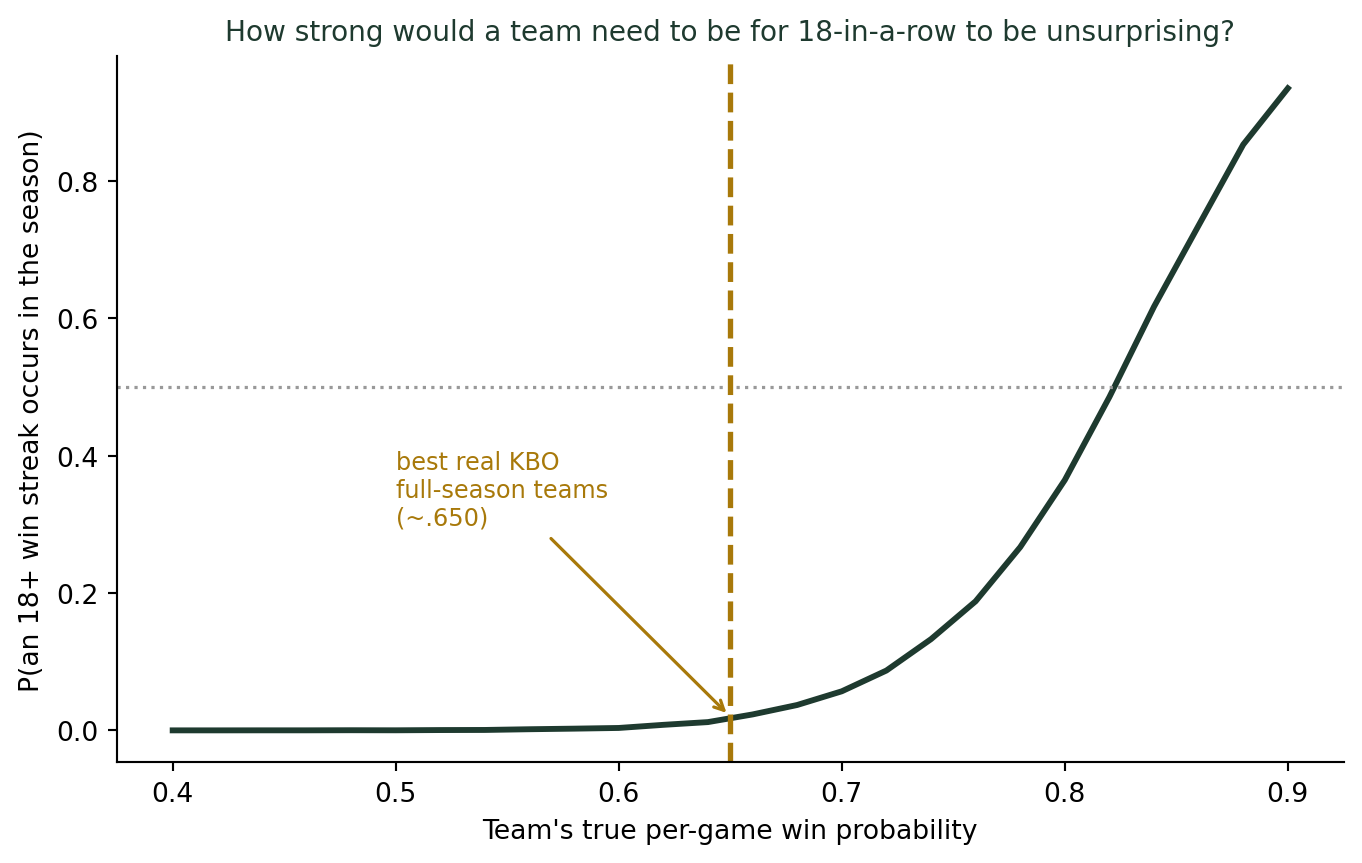
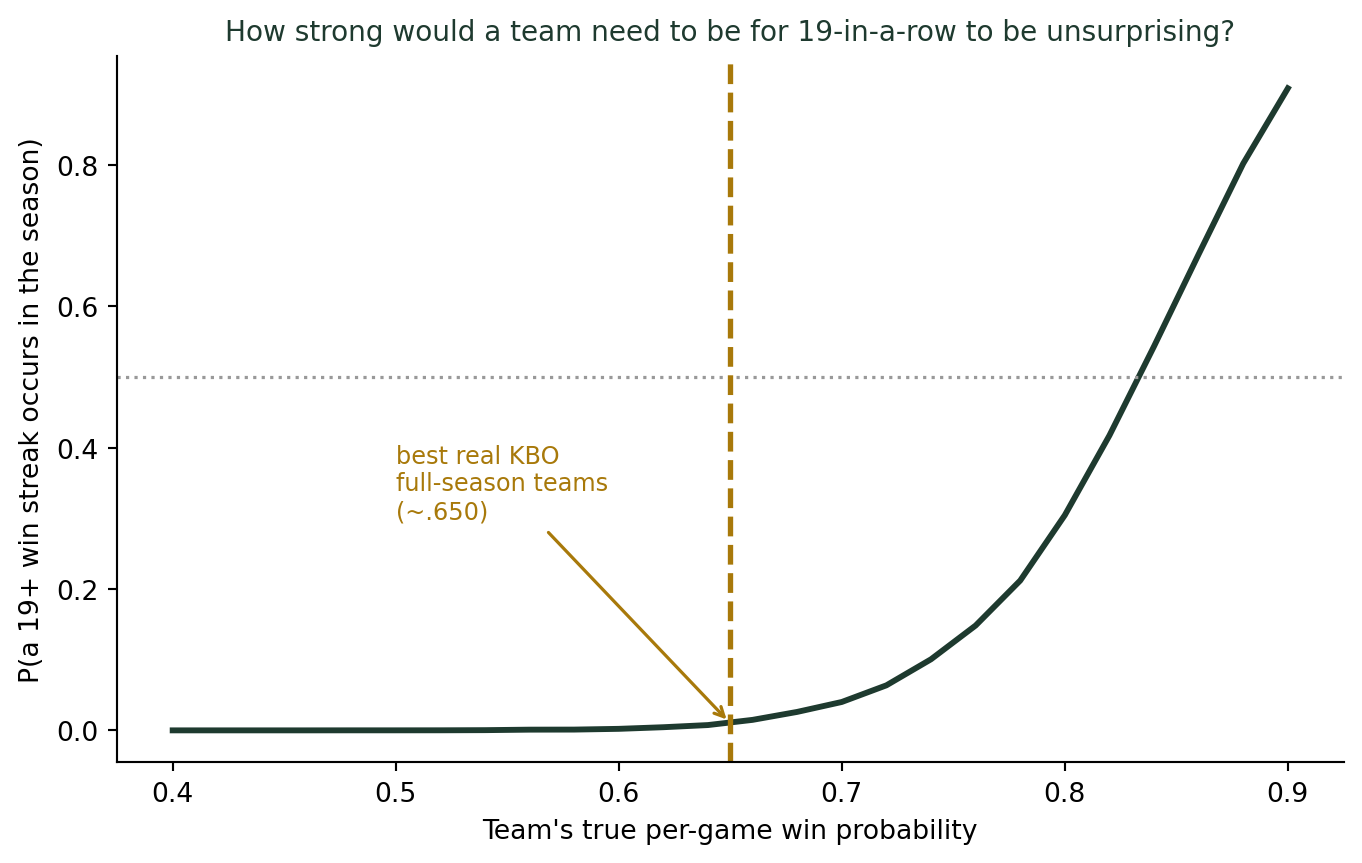
연승 에세이 팩트 정정: 1999 한화 18연승 → 2009 SK 와이번스 19연승(KBO 실제 기록)

diff --git a/docs/stat_assay/posts/story_streak_probability.html b/docs/stat_assay/posts/story_streak_probability.html
@@ -8,7 +8,7 @@
 
 <meta name="author" content="권세혁">
 <meta name="dcterms.date" content="2026-08-24">
-<meta name="description" content="1999년 한화 이글스는 132경기 시즌에서 18연승을 거뒀다. 아직도 깨지지 않은 KBO 역대 최다 연승 기록이다. 그 시즌 한화가 그저 평범한 5할 팀이었다고 가정하고 시즌을 수만 번 시뮬레이션해보면, 이 정도 연승이 얼마나 예외적인 사건인지 — 그리고 순전히 운으로 설명하려면 팀이 얼마나 압도적으로 강해야 하는지 — 숫자로 드러난다.">
+<meta name="description" content="2009년 SK 와이번스는 133경기 시즌의 마지막 19경기를 모두 이겼다. 아직도 깨지지 않은 KBO 역대 최다 연승 기록이다. 그 시즌 SK가 그저 평범한 5할 팀이었다고 가정하고 시즌을 수만 번 시뮬레이션해보면, 이 정도 연승이 얼마나 예외적인 사건인지 — 그리고 순전히 운으로 설명하려면 팀이 얼마나 압도적으로 강해야 하는지 — 숫자로 드러난다.">
 
 <title>(기록의 착시, 대표값의 재발견) 연승과 연패, 우연일까 실력일까 — 스트릭의 확률적 해석 – 권세혁HOME</title>
 <style>
@@ -370,8 +370,8 @@ window.Quarto = {
     <h2 id="toc-title">목차</h2>
    
   <ul>
-  <li><a href="#경기-중-18연승-아직-깨지지-않은-기록" id="toc-경기-중-18연승-아직-깨지지-않은-기록" class="nav-link active" data-scroll-target="#경기-중-18연승-아직-깨지지-않은-기록">132경기 중 18연승, 아직 깨지지 않은 기록</a></li>
-  <li><a href="#만약-그-시즌-한화가-그냥-5할-팀이었다면" id="toc-만약-그-시즌-한화가-그냥-5할-팀이었다면" class="nav-link" data-scroll-target="#만약-그-시즌-한화가-그냥-5할-팀이었다면">만약 그 시즌 한화가 그냥 5할 팀이었다면</a></li>
+  <li><a href="#경기-중-19연승-시즌-마지막-경기까지-이어진-기록" id="toc-경기-중-19연승-시즌-마지막-경기까지-이어진-기록" class="nav-link active" data-scroll-target="#경기-중-19연승-시즌-마지막-경기까지-이어진-기록">133경기 중 19연승, 시즌 마지막 경기까지 이어진 기록</a></li>
+  <li><a href="#만약-그-시즌-sk가-그냥-5할-팀이었다면" id="toc-만약-그-시즌-sk가-그냥-5할-팀이었다면" class="nav-link" data-scroll-target="#만약-그-시즌-sk가-그냥-5할-팀이었다면">만약 그 시즌 SK가 그냥 5할 팀이었다면</a></li>
   <li><a href="#그렇다면-얼마나-강한-팀이어야-이-기록이-흔한-일이-될까" id="toc-그렇다면-얼마나-강한-팀이어야-이-기록이-흔한-일이-될까" class="nav-link" data-scroll-target="#그렇다면-얼마나-강한-팀이어야-이-기록이-흔한-일이-될까">그렇다면 얼마나 강한 팀이어야 이 기록이 “흔한 일”이 될까</a></li>
   <li><a href="#왜-이런-계산이-가능한가-기하분포와-무기억성" id="toc-왜-이런-계산이-가능한가-기하분포와-무기억성" class="nav-link" data-scroll-target="#왜-이런-계산이-가능한가-기하분포와-무기억성">왜 이런 계산이 가능한가: 기하분포와 무기억성</a></li>
   <li><a href="#더-깊이-기하분포로-연속-사건을-재는-법" id="toc-더-깊이-기하분포로-연속-사건을-재는-법" class="nav-link" data-scroll-target="#더-깊이-기하분포로-연속-사건을-재는-법">더 깊이: 기하분포로 “연속 사건”을 재는 법</a></li>
@@ -394,7 +394,7 @@ window.Quarto = {
 
 <div>
   <div class="description">
-    1999년 한화 이글스는 132경기 시즌에서 18연승을 거뒀다. 아직도 깨지지 않은 KBO 역대 최다 연승 기록이다. 그 시즌 한화가 그저 평범한 5할 팀이었다고 가정하고 시즌을 수만 번 시뮬레이션해보면, 이 정도 연승이 얼마나 예외적인 사건인지 — 그리고 순전히 운으로 설명하려면 팀이 얼마나 압도적으로 강해야 하는지 — 숫자로 드러난다.
+    2009년 SK 와이번스는 133경기 시즌의 마지막 19경기를 모두 이겼다. 아직도 깨지지 않은 KBO 역대 최다 연승 기록이다. 그 시즌 SK가 그저 평범한 5할 팀이었다고 가정하고 시즌을 수만 번 시뮬레이션해보면, 이 정도 연승이 얼마나 예외적인 사건인지 — 그리고 순전히 운으로 설명하려면 팀이 얼마나 압도적으로 강해야 하는지 — 숫자로 드러난다.
   </div>
 </div>
 
@@ -423,62 +423,62 @@ window.Quarto = {
 </header>
 
 
-<section id="경기-중-18연승-아직-깨지지-않은-기록" class="level2">
-<h2 class="anchored" data-anchor-id="경기-중-18연승-아직-깨지지-않은-기록">132경기 중 18연승, 아직 깨지지 않은 기록</h2>
-<p>1999년 5월과 6월 사이, 한화 이글스는 프로야구 132경기 시즌에서 <strong>18경기를 내리 이겼다</strong>. 이 기록은 지금까지도 KBO 리그 역대 최다 연승으로 남아 있다. 그 시즌 한화는 결국 창단 첫 한국시리즈 우승까지 차지했다. 팬들에게는 “그 해 한화는 뭘 해도 이기는 팀이었다”는 전설로 기억된다.</p>
-<p>스포츠 중계에서 이런 연승·연패 기록이 나오면 항상 같은 해석이 붙는다. 연승 중인 팀에는 “지금 팀 전체가 물올랐다”, 연패 중인 팀에는 “선수단 분위기가 완전히 무너졌다”는 식이다. 그런데 지난 글에서 다룬 농구의 <a href="../../stat_assay/posts/story_hot_hand.html">핫핸드</a>처럼, 이런 서사에도 같은 질문을 던져볼 수 있다. <strong>정말 그 기간에만 팀의 실력이 달라졌던 걸까, 아니면 132경기라는 긴 시즌을 치르다 보면 순전한 우연만으로도 나올 수 있는 굴곡일까?</strong></p>
+<section id="경기-중-19연승-시즌-마지막-경기까지-이어진-기록" class="level2">
+<h2 class="anchored" data-anchor-id="경기-중-19연승-시즌-마지막-경기까지-이어진-기록">133경기 중 19연승, 시즌 마지막 경기까지 이어진 기록</h2>
+<p>2009년 8월 25일, SK 와이번스는 승리를 거둔 뒤 그해 정규시즌이 끝날 때까지 단 한 번도 지지 않았다. 133경기 체제였던 그 시즌, SK는 <strong>마지막 19경기를 모두 이겼다</strong> — 1986년 삼성 라이온즈가 세운 16연승 기록을 갈아치우며, 지금까지도 KBO 리그 역대 최다 연승(단일 시즌 기준)으로 남아 있는 기록이다. 그런데도 SK는 그 시즌 정규리그 2위에 그쳤고, 한국시리즈에서는 KIA 타이거즈에 7차전 접전 끝에 우승을 내줬다. 팬들에게는 “막판에 완전히 다른 팀이 됐다”는 이야기로 기억된다.</p>
+<p>스포츠 중계에서 이런 연승·연패 기록이 나오면 항상 같은 해석이 붙는다. 연승 중인 팀에는 “지금 팀 전체가 물올랐다”, 연패 중인 팀에는 “선수단 분위기가 완전히 무너졌다”는 식이다. 그런데 지난 글에서 다룬 농구의 <a href="../../stat_assay/posts/story_hot_hand.html">핫핸드</a>처럼, 이런 서사에도 같은 질문을 던져볼 수 있다. <strong>정말 그 기간에만 팀의 실력이 달라졌던 걸까, 아니면 133경기라는 긴 시즌을 치르다 보면 순전한 우연만으로도 나올 수 있는 굴곡일까?</strong></p>
 </section>
-<section id="만약-그-시즌-한화가-그냥-5할-팀이었다면" class="level2">
-<h2 class="anchored" data-anchor-id="만약-그-시즌-한화가-그냥-5할-팀이었다면">만약 그 시즌 한화가 그냥 5할 팀이었다면</h2>
-<p>이 질문에 답하는 첫 번째 방법은, 매 경기 승리 확률이 정확히 50%이고 경기 결과가 서로 독립적인 가상의 팀을 만들어 132경기 시즌을 시뮬레이션해보는 것이다.</p>
-<div id="f99fc513" class="cell" data-execution_count="1">
+<section id="만약-그-시즌-sk가-그냥-5할-팀이었다면" class="level2">
+<h2 class="anchored" data-anchor-id="만약-그-시즌-sk가-그냥-5할-팀이었다면">만약 그 시즌 SK가 그냥 5할 팀이었다면</h2>
+<p>이 질문에 답하는 첫 번째 방법은, 매 경기 승리 확률이 정확히 50%이고 경기 결과가 서로 독립적인 가상의 팀을 만들어 133경기 시즌을 시뮬레이션해보는 것이다.</p>
+<div id="bbb625da" class="cell" data-execution_count="1">
 <div class="cell-output cell-output-display">
 <div class="quarto-figure quarto-figure-center">
 <figure class="figure">
-<p><img src="story_streak_probability_files/figure-html/cell-2-output-1.png" width="578" height="490" class="figure-img"></p>
-<figcaption>One simulated 132-game season for a virtual team with a fixed, memory-less 50% win probability in every game (an i.i.d. Bernoulli process). The longest streak (outlined) is just 7 wins in a row — nowhere near 18.</figcaption>
+<p><img src="story_streak_probability_files/figure-html/cell-2-output-1.png" width="902" height="364" class="figure-img"></p>
+<figcaption>One simulated 133-game season for a virtual team with a fixed, memory-less 50% win probability in every game (an i.i.d. Bernoulli process). The longest streak (outlined) is just 7 wins in a row — nowhere near 19.</figcaption>
 </figure>
 </div>
 </div>
 </div>
-<p>초록 칸은 승리, 베이지색 칸은 패배다. 이 가상의 5할 팀에게 최장 연승은 7경기에 그쳤다. 시드값을 바꿔가며 수백 번을 다시 돌려도, 5할 팀에서 18연승이 나오는 경우는 거의 보이지 않는다. 실제로 같은 조건(승률 50%, 132경기)의 가상 시즌을 2만 번 시뮬레이션해보면, 그중 <strong>18연승 이상이 한 번이라도 나오는 시즌은 1만 번에 한 번꼴에도 못 미친다.</strong> 핫핸드 글에서 살펴본 100번의 슛 중 8연속 성공(약 12번에 1번)과는 비교가 안 될 만큼 희귀하다. 시행 횟수가 100에서 132로 조금 늘었을 뿐인데, 왜 이렇게 결과가 달라질까? 답은 연승의 <strong>길이</strong> 자체에 있다 — 8연속과 18연속은 산술적으로 두 배 차이가 아니라, 확률적으로는 자릿수가 다른 사건이다. 매 경기 독립적으로 동전을 던진다고 하면, 연승이 한 경기 늘어날 때마다 그 연승이 나올 확률은 승률만큼 곱절로 줄어들기 때문이다.</p>
+<p>초록 칸은 승리, 베이지색 칸은 패배다. 이 가상의 5할 팀에게 최장 연승은 7경기에 그쳤다. 시드값을 바꿔가며 수백 번을 다시 돌려도, 5할 팀에서 19연승이 나오는 경우는 거의 보이지 않는다. 실제로 같은 조건(승률 50%, 133경기)의 가상 시즌을 수만 번 시뮬레이션해보면, <strong>19연승 이상이 한 번이라도 나오는 시즌은 손에 꼽을 정도로 드물다.</strong> 핫핸드 글에서 살펴본 100번의 슛 중 8연속 성공(약 12번에 1번)과는 비교가 안 될 만큼 희귀하다. 시행 횟수가 100에서 133으로 조금 늘었을 뿐인데, 왜 이렇게 결과가 달라질까? 답은 연승의 <strong>길이</strong> 자체에 있다 — 8연속과 19연속은 산술적으로 두 배 남짓 차이가 아니라, 확률적으로는 자릿수가 다른 사건이다. 매 경기 독립적으로 동전을 던진다고 하면, 연승이 한 경기 늘어날 때마다 그 연승이 나올 확률은 승률만큼 곱절로 줄어들기 때문이다.</p>
 </section>
 <section id="그렇다면-얼마나-강한-팀이어야-이-기록이-흔한-일이-될까" class="level2">
 <h2 class="anchored" data-anchor-id="그렇다면-얼마나-강한-팀이어야-이-기록이-흔한-일이-될까">그렇다면 얼마나 강한 팀이어야 이 기록이 “흔한 일”이 될까</h2>
-<p>5할 팀은 사실상 불가능하다는 게 확인됐으니, 질문을 뒤집어보자. <strong>승률이 몇 퍼센트인 팀이어야, 132경기 시즌 어딘가에서 18연승이 나오는 일이 동전 던지기(반반 확률)만큼 흔해질까?</strong></p>
-<div id="915a3515" class="cell" data-execution_count="2">
+<p>5할 팀은 사실상 불가능하다는 게 확인됐으니, 질문을 뒤집어보자. <strong>승률이 몇 퍼센트인 팀이어야, 133경기 시즌 어딘가에서 19연승이 나오는 일이 동전 던지기(반반 확률)만큼 흔해질까?</strong></p>
+<div id="e4e5302c" class="cell" data-execution_count="2">
 <div class="cell-output cell-output-display">
 <div class="quarto-figure quarto-figure-center">
 <figure class="figure">
 <p><img src="story_streak_probability_files/figure-html/cell-3-output-1.png" width="681" height="432" class="figure-img"></p>
-<figcaption>Probability that a simulated 132-game season contains an 18-or-longer win streak somewhere, as a function of the team’s true per-game win probability p (20,000 simulated seasons per point). Even a .650 team — roughly the best a KBO team has managed over a full season — clears that bar only about 2% of the time. Not until true win probability approaches the mid-.80s does an 18-game streak become a coin-flip event.</figcaption>
+<figcaption>Probability that a simulated 133-game season contains a 19-or-longer win streak somewhere, as a function of the team’s true per-game win probability p (20,000 simulated seasons per point). Even a .650 team — roughly the best a KBO team has managed over a full season — clears that bar only about 1% of the time. Not until true win probability approaches the mid-.80s does a 19-game streak become a coin-flip event.</figcaption>
 </figure>
 </div>
 </div>
 </div>
-<p>결과는 뚜렷하다. 승률 65%인 팀 — 이 정도면 한 시즌 내내 유지하기도 벅찬, KBO 역대 최고 수준의 압도적인 강팀이다 — 이라도 18연승이 나올 확률은 <strong>2% 남짓</strong>이다. 곡선이 50%를 넘어서는 지점은 승률이 80%대 중반에 이르러서다. 그런데 132경기를 치르며 승률 8할대를 유지하는 팀은 KBO는 물론 세계 어느 프로야구 리그의 역사에도 없다. 즉, “한화가 그 시즌 내내 그 정도로 압도적인 팀이었다”는 가정으로도 이 기록은 설명되지 않는다.</p>
+<p>결과는 뚜렷하다. 승률 65%인 팀 — 이 정도면 한 시즌 내내 유지하기도 벅찬, KBO 역대 최고 수준의 압도적인 강팀이다 — 이라도 19연승이 나올 확률은 <strong>1%를 겨우 넘는 수준</strong>이다. 곡선이 50%를 넘어서는 지점은 승률이 80%대 중반에 이르러서다. 그런데 133경기를 치르며 승률 8할대를 유지하는 팀은 KBO는 물론 세계 어느 프로야구 리그의 역사에도 없다. 즉, “SK가 그 시즌 내내 그 정도로 압도적인 팀이었다”는 가정으로도 이 기록은 설명되지 않는다.</p>
 <div class="callout callout-style-default callout-tip callout-titled">
 <div class="callout-header d-flex align-content-center">
 <div class="callout-icon-container">
 <i class="callout-icon"></i>
 </div>
 <div class="callout-title-container flex-fill">
-그래서 이 18연승을 어떻게 읽어야 할까
+그래서 이 19연승을 어떻게 읽어야 할까
 </div>
 </div>
 <div class="callout-body-container callout-body">
 <ol type="1">
-<li><strong>순전한 우연(5할 팀)으로는 설명이 안 된다.</strong> 1만 시즌을 돌려도 한 번 나올까 말까다.</li>
-<li><strong>시즌 내내 유지 가능한 최고 수준의 실력(6할대 팀)으로도 설명이 부족하다.</strong> 여전히 100번 중 2번꼴이다.</li>
-<li><strong>가장 정직한 해석은 “그 18경기 동안 한화의 실제 승리 확률이 시즌 평균보다 훨씬 높이 올라가 있었다”는 것이다.</strong> 부상 선수 복귀, 상대적으로 약한 팀들과의 일정이 몰린 시기, 선수단의 사기 등 여러 요인이 겹치면서 일시적으로 팀의 “진짜 실력”이 시즌 평균을 크게 웃돌았을 가능성이 통계적으로 훨씬 설득력 있다.</li>
+<li><strong>순전한 우연(5할 팀)으로는 설명이 안 된다.</strong> 수만 시즌을 돌려도 한 번 나올까 말까다.</li>
+<li><strong>시즌 내내 유지 가능한 최고 수준의 실력(6할대 팀)으로도 설명이 부족하다.</strong> 여전히 100번 중 1번꼴이다.</li>
+<li><strong>가장 정직한 해석은 “그 19경기 동안 SK의 실제 승리 확률이 시즌 평균보다 훨씬 높이 올라가 있었다”는 것이다.</strong> 실제로 이 연승은 정규시즌 마지막 경기까지 그대로 이어졌다 — 순위 경쟁이 가장 치열해지는 시즌 막판이라는 특정 구간과 겹쳤다는 사실은, 그 기간 팀의 “진짜 실력”이 시즌 평균을 크게 웃돌았을 가능성에 무게를 실어준다.</li>
 </ol>
 </div>
 </div>
 </section>
 <section id="왜-이런-계산이-가능한가-기하분포와-무기억성" class="level2">
 <h2 class="anchored" data-anchor-id="왜-이런-계산이-가능한가-기하분포와-무기억성">왜 이런 계산이 가능한가: 기하분포와 무기억성</h2>
-<p>이 계산의 뼈대는 사실 단순하다. 매 경기를 승리 확률 <span class="math inline">\(p\)</span>의 독립적인 베르누이 시행으로 본다면, “다음 패배가 나올 때까지 몇 경기가 걸리는가”는 기하분포를 따른다. 연승이 <span class="math inline">\(k\)</span>경기까지 이어지려면, 그 <span class="math inline">\(k\)</span>번의 시행이 모두 성공해야 하므로 확률은 대략 <span class="math inline">\(p^{k}\)</span>로 줄어든다. <span class="math inline">\(p\)</span>가 1보다 작은 한, <span class="math inline">\(k\)</span>가 늘어날수록 이 값은 기하급수적으로 작아진다 — 18연승이 8연승보다 산술적으로 두 배가 아니라 확률적으로 자릿수가 다른 이유가 여기에 있다.</p>
-<p>여기서 중요한 전제가 하나 있다. 이 모형은 매 경기가 이전 경기의 결과와 <strong>완전히 무관</strong>하다고 가정한다. 도박사의 오류를 다룬 <a href="../../stat_assay/posts/story_gamblers_fallacy.html">지난 글</a>에서 살펴본 바로 그 “무기억성”이다. 그런데 현실의 야구팀은 동전과 다르다. 부상 선수의 복귀, 상대 팀의 전력, 선수단의 심리적 흐름은 실제로 경기 결과들 사이에 상관관계를 만들어낼 수 있다. 시뮬레이션이 보여준 “5할 팀·6할대 팀으로는 설명 안 된다”는 결론은, 바로 이 무기억성 가정이 그 18경기 구간에서는 깨져 있었다는 뜻으로 읽을 수 있다 — 즉 진짜로 무언가가 달라졌던 구간이라는 신호다.</p>
+<p>이 계산의 뼈대는 사실 단순하다. 매 경기를 승리 확률 <span class="math inline">\(p\)</span>의 독립적인 베르누이 시행으로 본다면, “다음 패배가 나올 때까지 몇 경기가 걸리는가”는 기하분포를 따른다. 연승이 <span class="math inline">\(k\)</span>경기까지 이어지려면, 그 <span class="math inline">\(k\)</span>번의 시행이 모두 성공해야 하므로 확률은 대략 <span class="math inline">\(p^{k}\)</span>로 줄어든다. <span class="math inline">\(p\)</span>가 1보다 작은 한, <span class="math inline">\(k\)</span>가 늘어날수록 이 값은 기하급수적으로 작아진다 — 19연승이 8연승보다 산술적으로 두 배 남짓이 아니라 확률적으로 자릿수가 다른 이유가 여기에 있다.</p>
+<p>여기서 중요한 전제가 하나 있다. 이 모형은 매 경기가 이전 경기의 결과와 <strong>완전히 무관</strong>하다고 가정한다. 도박사의 오류를 다룬 <a href="../../stat_assay/posts/story_gamblers_fallacy.html">지난 글</a>에서 살펴본 바로 그 “무기억성”이다. 그런데 현실의 야구팀은 동전과 다르다. 부상 선수의 복귀, 상대 팀의 전력, 선수단의 심리적 흐름은 실제로 경기 결과들 사이에 상관관계를 만들어낼 수 있다. 시뮬레이션이 보여준 “5할 팀·6할대 팀으로는 설명 안 된다”는 결론은, 바로 이 무기억성 가정이 그 19경기 구간에서는 깨져 있었다는 뜻으로 읽을 수 있다 — 즉 진짜로 무언가가 달라졌던 구간이라는 신호다.</p>
 </section>
 <section id="더-깊이-기하분포로-연속-사건을-재는-법" class="level2">
 <h2 class="anchored" data-anchor-id="더-깊이-기하분포로-연속-사건을-재는-법">더 깊이: 기하분포로 “연속 사건”을 재는 법</h2>
@@ -500,7 +500,8 @@ window.Quarto = {
 <div id="callout-2" class="callout-2-contents callout-collapse collapse">
 <div class="callout-body-container callout-body">
 <ul>
-<li><a href="https://ko.wikipedia.org/wiki/%ED%95%9C%ED%99%94_%EC%9D%B4%EA%B8%80%EC%8A%A4">한화 이글스 — 위키백과</a></li>
+<li><a href="https://ko.wikipedia.org/wiki/SK_%EC%99%80%EC%9D%B4%EB%B2%88%EC%8A%A4%EC%9D%98_%EA%B8%B0%EB%A1%9D">SK 와이번스의 기록 — 위키백과</a></li>
+<li><a href="https://ko.wikipedia.org/wiki/2009%EB%85%84_%ED%95%9C%EA%B5%AD%ED%94%84%EB%A1%9C%EC%95%BC%EA%B5%AC">2009년 한국프로야구 — 위키백과</a></li>
 <li><a href="https://ko.wikipedia.org/wiki/KBO_%EB%A6%AC%EA%B7%B8">KBO 리그 — 위키백과</a></li>
 <li><a href="https://en.wikipedia.org/wiki/Geometric_distribution">Geometric distribution — Wikipedia</a></li>
 </ul>

diff --git a/docs/stat_assay/posts/story_availability_bias.html b/docs/stat_assay/posts/story_availability_bias.html
@@ -424,7 +424,7 @@ window.Quarto = {
 <section id="로또는-상상하고-벼락은-상상하지-않는다" class="level2">
 <h2 class="anchored" data-anchor-id="로또는-상상하고-벼락은-상상하지-않는다">로또는 상상하고, 벼락은 상상하지 않는다</h2>
 <p>매주 토요일 저녁, 로또 추첨 방송을 챙겨보며 1등을 상상하는 사람은 많다. 반면 오늘 하루 벼락에 맞을까 봐 걱정하며 외출하는 사람은 거의 없다. 그런데 두 확률을 나란히 놓으면 이 순서는 뒤집힌다. 로또 6/45에서 1등에 당첨될 확률은 정확히 <span class="math inline">\(\binom{45}{6} = 8,145,060\)</span>분의 1이다. 반면 미국 국립기상청(NWS)이 추정하는 평생 벼락에 맞을 확률은 약 15,300분의 1이다.</p>
-<div id="86f874de" class="cell" data-execution_count="1">
+<div id="6bda8329" class="cell" data-execution_count="1">
 <div class="cell-output cell-output-display">
 <div class="quarto-figure quarto-figure-center">
 <figure class="figure">
@@ -440,7 +440,7 @@ window.Quarto = {
 <h2 class="anchored" data-anchor-id="왜-떠올리기-쉬움이-자주-일어남으로-둔갑하는가">왜 “떠올리기 쉬움”이 “자주 일어남”으로 둔갑하는가</h2>
 <p>1973년 트버스키와 카너먼은 이런 실험을 했다. 사람들에게 영어 단어에서 K, L, N, R, V 같은 자음이 <strong>첫 번째 글자</strong>로 더 많이 쓰이는지, <strong>세 번째 글자</strong>로 더 많이 쓰이는지 물었다. 대다수는 첫 글자 쪽이라고 답했다. 그런데 실제로 이 자음들은 세 번째 글자로 쓰이는 경우가 더 흔하다. 이유는 단순하다. 우리는 단어를 “K로 시작하는 단어”로는 쉽게 떠올리지만, “세 번째 글자가 K인 단어”로는 검색하듯 떠올리기 어렵다. <strong>떠올리기 쉬운 정도가 실제 빈도를 대신해버린 것이다.</strong></p>
 <p>뉴스 보도도 똑같은 방식으로 작동한다. 자주 일어나지만 심심한 사건(낙상, 감기, 교통 정체)은 기사가 되지 않는다. 드물지만 극적인 사건(상어 습격, 항공기 사고, 이상동기 범죄)은 며칠씩 이어지는 특집 기사가 된다. 그 결과, 우리 머릿속에 저장되는 “사례의 개수”는 실제 발생 개수와 전혀 다른 비율로 쌓인다.</p>
-<div id="3cff939c" class="cell" data-execution_count="2">
+<div id="c434e1f6" class="cell" data-execution_count="2">
 <div class="cell-output cell-output-display">
 <div class="quarto-figure quarto-figure-center">
 <figure class="figure">

diff --git a/docs/stat_assay/posts/story_survivorship_bias.html b/docs/stat_assay/posts/story_survivorship_bias.html
@@ -396,7 +396,7 @@ gtag('config', 'G-6JP0RHCH1Y', { 'anonymize_ip': true});
 <section id="전-10승-전문가를-만드는-아주-쉬운-방법" class="level2">
 <h2 class="anchored" data-anchor-id="전-10승-전문가를-만드는-아주-쉬운-방법">10전 10승 전문가를 만드는 아주 쉬운 방법</h2>
 <p>한국에서 몇 년째 반복되는 투자 사기 수법이 있다. 소위 “족집게 리딩방”이다. 방식은 이렇다. 운영자가 만 명에게 문자를 보낸다. 절반에게는 “내일 코스피 상승”, 나머지 절반에게는 “내일 코스피 하락”을 예측했다고 보낸다. 다음 날, 예측이 맞은 5천 명에게만 다시 연락한다. 그 5천 명을 다시 절반으로 나눠 상승·하락을 보내고, 또 맞춘 2,500명에게만 연락한다. 이 과정을 열 번만 반복하면, 시작할 때 만 명이었던 사람 중 <strong>10번 연속으로 정확히 맞힌 사람이 통계적으로 반드시 남는다.</strong> 그 사람들 눈에는 “10전 10승”의 전문가가 실제로 존재하는 것처럼 보인다. 실제로는 동전을 던진 것과 다를 바 없는데도.</p>
-<div id="6c0543a2" class="cell" data-execution_count="1">
+<div id="9a07e401" class="cell" data-execution_count="1">
 <div class="cell-output cell-output-display">
 <div class="quarto-figure quarto-figure-center">
 <figure class="figure">
@@ -428,7 +428,7 @@ gtag('config', 'G-6JP0RHCH1Y', { 'anonymize_ip': true});
 <section id="살아남은-사람들의-평균은-원래보다-부풀려-보인다" class="level2">
 <h2 class="anchored" data-anchor-id="살아남은-사람들의-평균은-원래보다-부풀려-보인다">살아남은 사람들의 평균은 원래보다 부풀려 보인다</h2>
 <p>리딩방 사례를 조금 더 확장해보자. 이번엔 순전히 운으로만 수익률이 결정되는(실력은 전혀 없는) 가상의 투자자 5만 명을 만들어, 20번의 투자 라운드를 거치게 한다. 매 라운드 수익률은 평균 0%를 중심으로 무작위로 오르내린다. 다만 누적 손실이 일정 수준을 넘으면 “파산”으로 간주해 시장에서 퇴출시킨다.</p>
-<div id="f0b0b6ec" class="cell" data-execution_count="2">
+<div id="46672e4b" class="cell" data-execution_count="2">
 <div class="cell-output cell-output-display">
 <div class="quarto-figure quarto-figure-center">
 <figure class="figure">

diff --git a/docs/stat_assay/posts/story_log_scale.html b/docs/stat_assay/posts/story_log_scale.html
@@ -425,7 +425,7 @@ window.Quarto = {
 <h2 class="anchored" data-anchor-id="그래프는-점점-더-가팔라지는데-실제로는-진정되고-있었다">그래프는 점점 더 가팔라지는데, 실제로는 진정되고 있었다</h2>
 <p>2020년 2월 18일, 대구에서 국내 31번째 확진자가 나왔다. 이른바 “31번 확진자”다. 그날 이후 신천지 대구교회를 중심으로 확진자가 쏟아졌다. 국내 누적 확진자 수는 2월 18일 31명에서, 2월 20일 104명, 2월 22일 433명, 2월 29일 3,150명, 그리고 3월 15일에는 8,236명까지 늘었다. 보름 만에 확진자가 265배로 불어난 것이다.</p>
 <p>당시 이 추이를 다룬 뉴스 그래프들은 대부분 세로축을 0부터 시작하는 <strong>선형 눈금(linear scale)</strong>으로 그렸다. 이런 그래프에서 확진자 곡선은 2월 하순까지 거의 바닥에 붙어 있다가, 3월에 접어들며 갑자기 하늘로 치솟는 모양이 된다. “확산세가 걷잡을 수 없이 가팔라지고 있다”는 인상을 준다.</p>
-<div id="797b4519" class="cell" data-execution_count="1">
+<div id="7f4b6c14" class="cell" data-execution_count="1">
 <div class="cell-output cell-output-display">
 <div class="quarto-figure quarto-figure-center">
 <figure class="figure">
@@ -446,7 +446,7 @@ window.Quarto = {
 </ul>
 <p>확진자 수처럼 매일 일정한 <strong>비율</strong>로 늘어나는 값(지수적 증가, exponential growth)은, 이 성질 때문에 로그 눈금에서 <strong>직선</strong>으로 나타난다. 반대로 매일 일정한 <strong>양</strong>만큼 늘어나는 값은 선형 눈금에서 직선이 된다. 즉 어느 눈금을 쓰느냐에 따라 “직선”이 뜻하는 바가 완전히 달라진다.</p>
 <p>같은 확진자 데이터를 로그 눈금으로 다시 그려보면 이렇다.</p>
-<div id="75559c27" class="cell" data-execution_count="2">
+<div id="25bfbba5" class="cell" data-execution_count="2">
 <div class="cell-output cell-output-display">
 <div class="quarto-figure quarto-figure-center">
 <figure class="figure">

diff --git a/docs/stat_assay/index.html b/docs/stat_assay/index.html
@@ -252,7 +252,7 @@ window.Quarto = {
 
 <div class="quarto-listing quarto-listing-container-grid" id="listing-listing">
 <div class="list grid quarto-listing-cols-3">
[2 lines of base64/hex data omitted]
 <a href="../stat_assay/posts/story_streak_probability.html" class="quarto-grid-link">
 <div class="quarto-grid-item card h-100 card-left">
 <div class="card-body post-contents">
@@ -269,7 +269,7 @@ window.Quarto = {
 
 </div>
 <div class="card-text listing-description delink">
-<p>1999년 한화 이글스는 132경기 시즌에서 18연승을 거뒀다. 아직도 깨지지 않은 KBO 역대 최다 연승 기록이다. 그 시즌 한화가 그저 평범한 5할 팀이었다고 가정하고 시즌을 수만 번 시뮬레이션해보면, 이 정도 연승이 얼마나 예외적인 사건인지 — 그리고 순전히 운으로 설명하려면 팀이 얼마나 압도적으로…</p>
+<p>2009년 SK 와이번스는 133경기 시즌의 마지막 19경기를 모두 이겼다. 아직도 깨지지 않은 KBO 역대 최다 연승 기록이다. 그 시즌 SK가 그저 평범한 5할 팀이었다고 가정하고 시즌을 수만 번 시뮬레이션해보면, 이 정도 연승이 얼마나 예외적인 사건인지 — 그리고 순전히 운으로 설명하려면 팀이 얼마나…</p>
 </div>
 <div class="card-attribution card-text-small end">
 <div class="listing-date">

diff --git a/docs/stat_assay/posts/story_regression_mean.html b/docs/stat_assay/posts/story_regression_mean.html
@@ -430,7 +430,7 @@ window.Quarto = {
 <section id="실력은-그대로-시험-점수만-오르내리는-가상의-학생들" class="level2">
 <h2 class="anchored" data-anchor-id="실력은-그대로-시험-점수만-오르내리는-가상의-학생들">실력은 그대로, 시험 점수만 오르내리는 가상의 학생들</h2>
 <p>가상의 학생 5,000명을 만든다. 각 학생에게는 시험을 여러 번 봐도 잘 변하지 않는 <strong>“진짜 실력”</strong>을 하나씩 부여한다(평균 75점, 표준편차 8점인 정규분포). 그리고 실제 시험 점수는 이 진짜 실력에, 그날그날의 컨디션·문제 운·긴장도 같은 <strong>순전한 우연</strong>을 더해서 정해진다고 가정한다. 중요한 것은, 이 우연 요소는 이번 시험과 다음 시험에서 완전히 독립적으로 다시 뽑힌다는 점이다 — 즉 “운이 좋았다/나빴다”는 것 자체가 다음 시험까지 이어지지 않는다.</p>
-<div id="6db1679d" class="cell" data-execution_count="1">
+<div id="b17eef6f" class="cell" data-execution_count="1">
 <div class="cell-output cell-output-display">
 <div class="quarto-figure quarto-figure-center">
 <figure class="figure">
@@ -445,7 +445,7 @@ window.Quarto = {
 <section id="학원과-관계없이-상위-학생-하위-학생-점수는-평균으로-돌아온다" class="level2">
 <h2 class="anchored" data-anchor-id="학원과-관계없이-상위-학생-하위-학생-점수는-평균으로-돌아온다">학원과 관계없이 상위 학생, 하위 학생 점수는 평균으로 돌아온다</h2>
 <p>같은 시뮬레이션에서, 1차 시험 <strong>하위 10%</strong>와 <strong>상위 10%</strong> 학생들만 따로 골라 평균 점수 변화를 비교해보자.</p>
-<div id="946f3f06" class="cell" data-execution_count="2">
+<div id="693e7a85" class="cell" data-execution_count="2">
 <div class="cell-output cell-output-display">
 <div class="quarto-figure quarto-figure-center">
 <figure class="figure">

diff --git a/docs/stat_assay/posts/story_graph_ethics.html b/docs/stat_assay/posts/story_graph_ethics.html
@@ -426,7 +426,7 @@ gtag('config', 'G-6JP0RHCH1Y', { 'anonymize_ip': true});
 <section id="여론조사-차이가-있다만이-아니라-얼마나-확실한가까지" class="level3">
 <h3 class="anchored" data-anchor-id="여론조사-차이가-있다만이-아니라-얼마나-확실한가까지">여론조사: “차이가 있다”만이 아니라 “얼마나 확실한가”까지</h3>
 <p>월요일 그래프의 문제는 축을 0에서 시작하지 않은 것만이 아니었다. 축을 0에서 시작하더라도, 표본오차를 표시하지 않으면 “5.1%포인트 차이가 통계적으로 의미 있는 차이인지”는 여전히 알 수 없다.</p>
-<div id="801dbeca" class="cell" data-execution_count="1">
+<div id="2d2dd203" class="cell" data-execution_count="1">
 <div class="cell-output cell-output-display">
 <div class="quarto-figure quarto-figure-center">
 <figure class="figure">
@@ -441,7 +441,7 @@ gtag('config', 'G-6JP0RHCH1Y', { 'anonymize_ip': true});
 <section id="코로나19-데이터-이중축을-정직하게-쓰는-법" class="level3">
 <h3 class="anchored" data-anchor-id="코로나19-데이터-이중축을-정직하게-쓰는-법">코로나19 데이터: 이중축을 “정직하게” 쓰는 법</h3>
 <p>화요일 글은 이중축 자체를 비판한 것이 아니었다. 문제는 아무 관계도 없는 두 변수(출산율, 코스피)를 이중축에 억지로 겹친 것이었다. 반대로 <strong>같은 현상의 서로 다른 두 얼굴</strong>을 이중축으로 보여주는 것은 정당한 사용법이다. 목요일에 쓴 코로나19 데이터로 예를 들면, 누적 확진자 수(전체 규모)와 하루 증가율(변화 속도)은 완전히 다른 질문에 답하지만 같은 현상에서 나온 숫자다.</p>
-<div id="18095b35" class="cell" data-execution_count="2">
+<div id="dd66a913" class="cell" data-execution_count="2">
 <div class="cell-output cell-output-display">
 <div class="quarto-figure quarto-figure-center">
 <figure class="figure">

diff --git a/docs/stat_assay/posts/story_truncated_axis.html b/docs/stat_assay/posts/story_truncated_axis.html
@@ -401,7 +401,7 @@ gtag('config', 'G-6JP0RHCH1Y', { 'anonymize_ip': true});
 <h2 class="anchored" data-anchor-id="막대그래프의-약속-높이는-곧-값이다">막대그래프의 약속: 높이는 곧 값이다</h2>
 <p>막대그래프가 성립하는 이유는 단순한 약속 하나 때문이다. 강의노트 <a href="../../notes/intro_stat/data.html#범주형-데이터">〈기초통계 1. 통계학의 개념 — 범주형 데이터〉</a>는 막대그래프를 이렇게 정의한다. “각 범주에 해당하는 빈도 또는 비율을 막대의 <strong>높이</strong>로 나타낸다.” 이 정의가 성립하려면 모든 막대의 밑변, 즉 축의 시작점이 같은 기준(보통 0)에서 출발해야 한다. 그래야 막대 높이의 비율이 실제 값의 비율과 일치한다.</p>
 <p>축의 시작점을 0이 아닌 다른 값으로 옮기는 순간, 이 약속은 깨진다. 높이는 더 이상 값에 비례하지 않는다.</p>
-<div id="feb97225" class="cell" data-execution_count="1">
+<div id="3bc25af1" class="cell" data-execution_count="1">
 <div class="cell-output cell-output-display">
 <div class="quarto-figure quarto-figure-center">
 <figure class="figure">
@@ -412,7 +412,7 @@ gtag('config', 'G-6JP0RHCH1Y', { 'anonymize_ip': true});
 </div>
 </div>
 <p>0%부터 시작하는 축에서는 두 막대의 높이 차이가 크지 않다. 실제로 표본오차 안의 접전이었으니 당연하다. 그런데 같은 두 숫자를, 축의 시작점만 논란이 된 방송처럼 38%로 옮겨서 다시 그리면 어떻게 될까.</p>
-<div id="8138624d" class="cell" data-execution_count="2">
+<div id="e980b9fd" class="cell" data-execution_count="2">
 <div class="cell-output cell-output-display">
 <div class="quarto-figure quarto-figure-center">
 <figure class="figure">

diff --git a/docs/stat_assay/posts/story_employment_rate.html b/docs/stat_assay/posts/story_employment_rate.html
@@ -450,7 +450,7 @@ window.Quarto = {
 <section id="같은-졸업생-4417명-분모에-따라-달라지는-숫자" class="level2">
 <h2 class="anchored" data-anchor-id="같은-졸업생-4417명-분모에-따라-달라지는-숫자">같은 졸업생 4,417명, 분모에 따라 달라지는 숫자</h2>
 <p>앞서 본 학교의 실제 구성을 뜯어보면 이렇다.</p>
-<div id="c637fa2b" class="cell" data-execution_count="1">
+<div id="93110d54" class="cell" data-execution_count="1">
 <div class="cell-output cell-output-display">
 <div class="quarto-figure quarto-figure-center">
 <figure class="figure">
@@ -462,7 +462,7 @@ window.Quarto = {
 </div>
 <p>초록 막대(취업자 2,419명 + 아직 구직 중인 1,070명)는 분모에 남는다. 주황 막대(대학원 진학 751명, 귀국한 외국인 유학생 177명)는 분모에서 빠진다. 그 결과, 분모는 4,417명이 아니라 <strong>3,489명</strong>(4,417 − 751 − 177)이 된다.</p>
 <p><span class="math display">\[\text{공시 취업률} = \frac{2{,}419}{3{,}489} \times 100 \approx 69.3\%\]</span></p>
-<div id="dabbc9ac" class="cell" data-execution_count="2">
+<div id="1d466227" class="cell" data-execution_count="2">
 <div class="cell-output cell-output-display">
 <div class="quarto-figure quarto-figure-center">
 <figure class="figure">
@@ -513,7 +513,7 @@ window.Quarto = {
 <p>두 통계 모두 “제외 기준에 걸리는 사람이 많아질수록 분모가 작아지고, 비율은 통계상 나아진 것처럼 보인다”는 같은 취약점을 공유한다.</p>
 </div>
 </div>
-<div id="bf3db8fa" class="cell" data-execution_count="3">
+<div id="7bda468b" class="cell" data-execution_count="3">
 <div class="cell-output cell-output-display">
 <div class="quarto-figure quarto-figure-center">
 <figure class="figure">

diff --git a/docs/stat_assay/posts/story_mean_trap.html b/docs/stat_assay/posts/story_mean_trap.html
@@ -397,7 +397,7 @@ gtag('config', 'G-6JP0RHCH1Y', { 'anonymize_ip': true});
 <p>기초통계 첫 수업, 나는 늘 이 예시로 시작한다. 경제학자 한 명과 노숙자 아홉 명이 한 방에 있다. 이 방의 평균 자산은 얼마일까?</p>
 <p>경제학자의 자산이 100억 원이고 나머지 아홉 명의 자산이 0원이라면, 평균은 10억 원이다. 방 안의 열 명 중 누구도 평균 근처에 없다. 평균은 거짓말을 하지 않았지만, 현실을 제대로 전달하지도 못했다.</p>
 <p>이것이 <strong>평균의 함정</strong>이다.</p>
-<div id="118d5071" class="cell" data-execution_count="1">
+<div id="330a7f6f" class="cell" data-execution_count="1">
 <div class="cell-output cell-output-display">
 <div class="quarto-figure quarto-figure-center">
 <figure class="figure">
@@ -574,7 +574,7 @@ gtag('config', 'G-6JP0RHCH1Y', { 'anonymize_ip': true});
 </div>
 </div>
 <p>이 예시를 강의할 때마다 학생들에게 꼭 덧붙이는 말이 있다. “이건 미국 이야기만이 아닙니다.” 국내 통계 교육 자료에서도 같은 구조의 사례가 자주 소개된다. 합격이 비교적 쉬운 공학계열에는 남학생이, 합격이 어려운 계열(예: 식품영양학과처럼 경쟁률이 높은 학과)에는 여학생 지원이 몰리면, 계열별 합격률은 여학생이 더 높은데도 전체 합격률은 남학생이 높게 나오는 똑같은 역설이 벌어진다. 나라와 시대는 달라도, 통계적 구조는 그대로 반복된다.</p>
-<div id="a8bdd585" class="cell" data-execution_count="2">
+<div id="301e39fd" class="cell" data-execution_count="2">
 <div class="cell-output cell-output-display">
 <div class="quarto-figure quarto-figure-center">
 <figure class="figure">

diff --git a/docs/stat_assay/posts/story_body_temp.html b/docs/stat_assay/posts/story_body_temp.html
@@ -419,7 +419,7 @@ gtag('config', 'G-6JP0RHCH1Y', { 'anonymize_ip': true});
 <section id="평균은-한-사람-한-사람을-대표하지-못한다" class="level2">
 <h2 class="anchored" data-anchor-id="평균은-한-사람-한-사람을-대표하지-못한다">평균은 한 사람 한 사람을 대표하지 못한다</h2>
 <p>1992년, 미국 메릴랜드 의과대학의 필립 마코와이악(Philip Mackowiak) 연구팀이 현대적인 방법으로 148명의 체온을 다시 측정했다. 결과는 평균 <strong>36.8°C(98.2°C)</strong>로 분덜리히의 값보다 약간 낮았고, 무엇보다 중요한 발견은 따로 있었다. <strong>개인차가 생각보다 훨씬 컸다</strong>는 것이다.</p>
-<div id="47b1b239" class="cell" data-execution_count="1">
+<div id="2c190847" class="cell" data-execution_count="1">
 <div class="cell-output cell-output-display">
 <div class="quarto-figure quarto-figure-center">
 <figure class="figure">
@@ -489,7 +489,7 @@ gtag('config', 'G-6JP0RHCH1Y', { 'anonymize_ip': true});
 <section id="하루-중에도-체온은-계속-변한다" class="level2">
 <h2 class="anchored" data-anchor-id="하루-중에도-체온은-계속-변한다">하루 중에도 체온은 계속 변한다</h2>
 <p>개인차만 문제가 아니다. <strong>같은 사람이라도</strong> 하루 중 시간에 따라 체온은 규칙적으로 오르내린다. 이를 생체리듬(circadian rhythm)이라 부른다. 보통 새벽에 가장 낮고, 늦은 오후에서 초저녁 사이에 가장 높다.</p>
-<div id="418386b3" class="cell" data-execution_count="2">
+<div id="30b81264" class="cell" data-execution_count="2">
 <div class="cell-output cell-output-display">
 <div class="quarto-figure quarto-figure-center">
 <figure class="figure">

diff --git a/docs/stat_assay/posts/story_hot_hand.html b/docs/stat_assay/posts/story_hot_hand.html
@@ -402,7 +402,7 @@ gtag('config', 'G-6JP0RHCH1Y', { 'anonymize_ip': true});
 <section id="성공확률이-고정된-가상의-슈터를-만들어보자" class="level2">
 <h2 class="anchored" data-anchor-id="성공확률이-고정된-가상의-슈터를-만들어보자">성공확률이 고정된 가상의 슈터를 만들어보자</h2>
 <p>이 질문에 답하기 가장 간단한 방법은, 매 슛마다 성공확률이 <strong>정확히 똑같고, 직전 결과와 완전히 무관한</strong> 가상의 슈터를 컴퓨터로 만들어 보는 것이다. 성공확률 45%인 이 가상 슈터에게 100번 슛을 던지게 시뮬레이션하면 이런 결과가 나온다.</p>
-<div id="6b50ddd8" class="cell" data-execution_count="1">
+<div id="74b30a9a" class="cell" data-execution_count="1">
 <div class="cell-output cell-output-display">
 <div class="quarto-figure quarto-figure-center">
 <figure class="figure">
@@ -417,7 +417,7 @@ gtag('config', 'G-6JP0RHCH1Y', { 'anonymize_ip': true});
 <section id="이런-몰아넣기는-얼마나-특별한가" class="level2">
 <h2 class="anchored" data-anchor-id="이런-몰아넣기는-얼마나-특별한가">이런 몰아넣기는 얼마나 “특별”한가</h2>
 <p>혹시 방금 본 그림이 우연히 뽑은 극단적인 사례는 아니었을까? 같은 조건(성공확률 45%, 100번 슛)의 가상 슈터를 2만 명 만들어, 각자의 최장 연속 성공 기록을 모아보면 답이 나온다.</p>
-<div id="a8c1befb" class="cell" data-execution_count="2">
+<div id="fc377d18" class="cell" data-execution_count="2">
 <div class="cell-output cell-output-display">
 <div class="quarto-figure quarto-figure-center">
 <figure class="figure">
